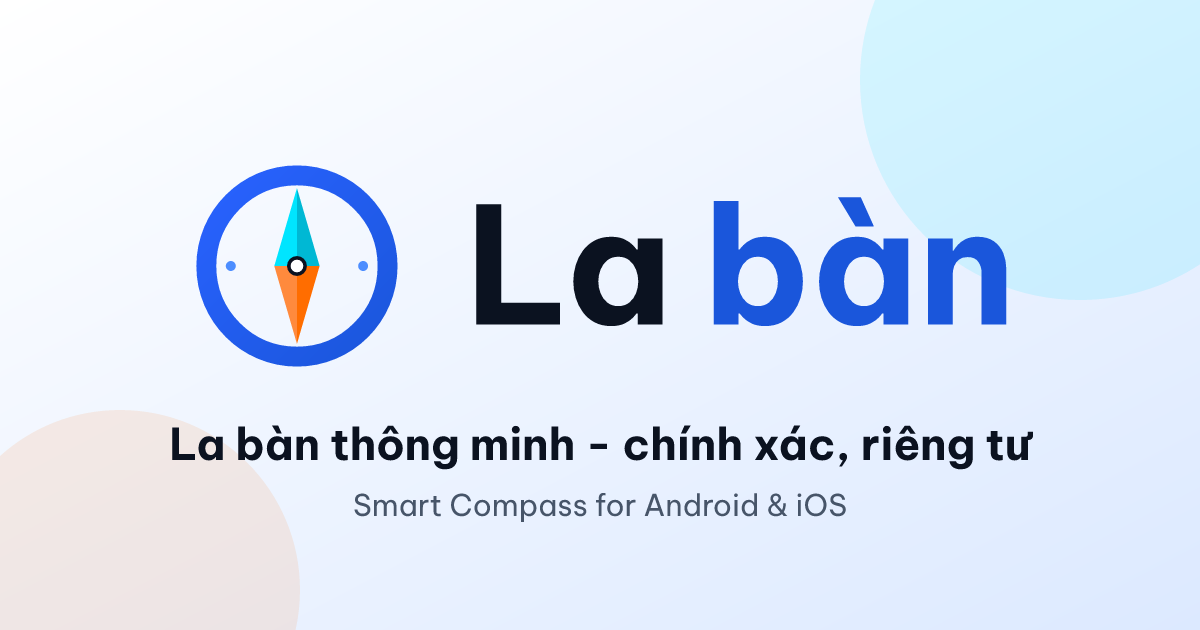
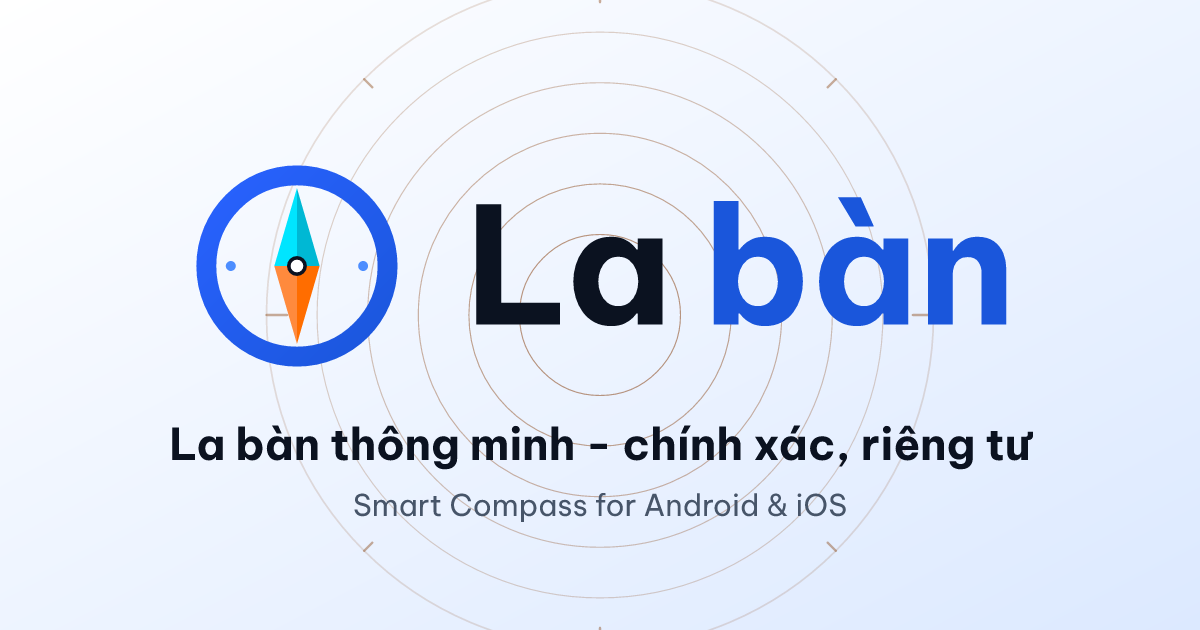
feat(ui): bo cuc do-luong + hoa tiet vong-dong-tam (STD50 PR2) (#120)
* feat(ui): bo cuc do-luong + hoa tiet vong-dong-tam (STD50 PR2)

- Trang chu landing: mat la ban lon o giua, so lieu phu xep hai ben (dien thoai: luoi 2x2), nhan aria qua i18n.
- Hoa tiet vong-dong-tam tinh: module tat dinh tools/build/vong-dong-tam.mjs dung chung hero + og.png.
- thuong-hieu.mjs --chi og: chi sinh lai anh OG, khong dung icon / anh store da nop.
- Dong phieu STD50.

* docs(kiem-thu): anh truoc/sau bo cuc do-luong + og (STD50 PR2)

diff --git a/web/landing/src/i18n/noi-dung.ts b/web/landing/src/i18n/noi-dung.ts
@@ -36,6 +36,7 @@ export type NoiDung = {
     nutIos: string;
     ghiChuBeta: string;
     soLieu: { so: string; nhan: string }[];
+    soLieuNhan: string;
     tinhNangTieuDe: string;
     tinhNangMoTa: string;
     tinhNang: (Muc & { icon: Icon; sapCo?: boolean })[];
@@ -158,6 +159,7 @@ const vi: NoiDung = {
     nutPlay: 'Google Play - sắp có',
     nutIos: 'iPhone - đầu năm 2027',
     ghiChuBeta: 'Bản thử nghiệm đang hoàn thiện từng tính năng. Cảm ơn bạn đã dùng thử và góp ý.',
+    soLieuNhan: 'Mặt la bàn và số liệu chính',
     soLieu: [
       { so: '±0,5°', nhan: 'mục tiêu sai số sau hiệu chuẩn' },
       { so: '60 FPS', nhan: 'mặt la bàn mượt, tiết kiệm pin' },
@@ -393,6 +395,7 @@ const en: NoiDung = {
     nutPlay: 'Google Play - coming soon',
     nutIos: 'iPhone - early 2027',
     ghiChuBeta: 'The beta is being completed feature by feature. Thanks for trying it and sharing feedback.',
+    soLieuNhan: 'Compass dial and key figures',
     soLieu: [
       { so: '±0.5°', nhan: 'target error after calibration' },
       { so: '60 FPS', nhan: 'smooth dial, battery friendly' },

diff --git a/logs/handover/20261121-STD50_ban-sac-san-pham-v5.0.0.md b/logs/handover/20261121-STD50_ban-sac-san-pham-v5.0.0.md
@@ -2,7 +2,7 @@
 
 - **Mã phiếu**: 20261121-STD50
 - **Từ**: phiên tsudev-standards, 21/11/2026 - **Đến**: phiên kế tiếp của `app-la-ban`
-- **Trạng thái**: MỞ
+- **Trạng thái**: ĐÓNG (24/11/2026)
 - **Nguồn**: https://github.com/tsudev-org/tsudev-standards/releases/tag/v5.0.0 - `docs/DESIGN_SYSTEM.md` mục 1.2,
   CHANGELOG 5.0.0 "Hướng dẫn nâng cấp"
 - **Bối cảnh**: chủ dự án muốn mỗi sản phẩm có đặc trưng nổi bật riêng (màu, giao diện, bố cục). Trước v5.0.0, 9/11
@@ -51,3 +51,7 @@ kiểm chống trùng phải xanh. KHÔNG ghi đè tại repo này.
   68 cặp tương phản AA; bo góc `tron` đọc từ `products.css`; web nạp `tokens.css` + `products.css`, `data-product="compass"`,
   nút `--radius-control`, h1-h3 + số lớn Montserrat 700 tự host; khiên web + mockup điện thoại hết mã tím cứng; admin `warm` ->
   Sáng; app nút viên thuốc, 122 golden sinh lại; logo giữ nguyên (golden logo không đổi). Ảnh trước/sau Sáng + Tối trong PR.
+- **PR 2** (24/11/2026, nhánh `phase/std50-bo-cuc`): thân trang chủ landing theo `do-luong` (mặt la bàn lớn ở giữa, 4 số liệu
+  xếp hai bên; điện thoại: mặt trên, số liệu lưới 2x2); hoạ tiết `vong-dong-tam` tĩnh (module tất định
+  `tools/build/vong-dong-tam.mjs`, màu `accent`) ở hero + `og.png` (`thuong-hieu.mjs --chi og`). Header / chân trang / bộ chọn
+  giao diện giữ nguyên. Màn đầu app (La bàn) vốn đã là `do-luong` - không đổi. -> phiếu ĐÓNG.
